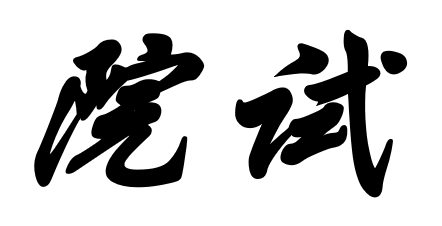
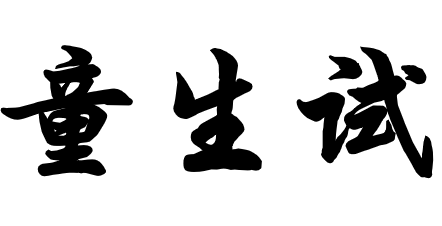
Adding winning poems.

diff --git a/Assets/Scripts/UI/Scenes/MainGameScene.cs b/Assets/Scripts/UI/Scenes/MainGameScene.cs
@@ -35,6 +35,7 @@ public class MainGameScene : MonoBehaviour
 
     public GameObject backgroundAudio = null;
 
+
     //// private ActivityManager activityManager = null;
 
     public int StageId
@@ -185,7 +186,7 @@ public class MainGameScene : MonoBehaviour
 
         game.transform.parent = this.transform;
         game.name = "ActivityManager";
-        game.tag = "ActivityManager";
+        // game.tag = "ActivityManager";
         return activityManager;
     }
 
@@ -320,6 +321,33 @@ public class MainGameScene : MonoBehaviour
             next.HighestScore = 0;
             GlobalStorage.SaveRecord(next);
         }
+
+        // Play animation to close the panels and show poem in full
+        var activityManager = AquireActivityManager();
+        var fadeOut1 = new FadeOutActivity(this.PuzzleBoard, 1.5f);
+        var fadeOut2 = new FadeOutActivity(this.HintBoard, 1.5f);
+        var fadeOut3 = new FadeOutActivity(this.btnReveal, 1.5f);
+        var fadeOut4 = new FadeOutActivity(this.btnBack, 1.5f);
+        var fadeOut5 = new FadeOutActivity(this.btnReshuffle, 1.5f);
+        var fadeOut6 = new FadeOutActivity(this.txtRevealCount, 1.5f);
+        
+        var bundle = new BundleActivity();
+        bundle.AddActivity(fadeOut1);
+        bundle.AddActivity(fadeOut2);
+        bundle.AddActivity(fadeOut3);
+        bundle.AddActivity(fadeOut4);
+        bundle.AddActivity(fadeOut5);
+
+        var gameObject = new GameObject("WinningPoem");
+        var renderer = gameObject.AddComponent<SpriteRenderer>();
+        renderer.sprite = Resources.Load<Sprite>(string.Format(@"images/stage_{0}_win", this.StageId));
+        renderer.color = new Color(1.0f, 1.0f, 1.0f, 0.0f);
+        gameObject.transform.localScale = new Vector3(0.55f, 0.55f, 1.0f);
+
+        var fadeIn = new FadeInActivity(gameObject, 1.5f);
+
+        activityManager.PushActivity(bundle);
+        activityManager.PushActivity(fadeIn);
     }
 
     public void BtnBackClicked()

diff --git a/Assets/Scripts/UI/Activities/FadeOutActivity.cs b/Assets/Scripts/UI/Activities/FadeOutActivity.cs
@@ -1,0 +1,55 @@
+using System.Collections;
+using System.Collections.Generic;
+using UnityEngine;
+
+public class FadeOutActivity : BaseActivity
+{
+    private GameObject gameObject;
+
+    private float timeSpan = 0;
+
+    private float timeStart = 0;
+
+    public FadeOutActivity(GameObject gameObject, float timeSpan)
+    {
+        this.gameObject = gameObject;
+        this.timeSpan = timeSpan;
+    }
+
+    public override bool HasFinished()
+    {
+        return (Time.realtimeSinceStartup - timeStart) > timeSpan;
+    }
+
+    public override void OnBeginning()
+    {
+        timeStart = Time.realtimeSinceStartup;
+    }
+
+    public override void OnFinished()
+    {
+        // Nothing
+    }
+
+    public override void Update()
+    {
+        float a = 1 - (Time.realtimeSinceStartup - timeStart) / timeSpan;
+
+        Transform[] ts = gameObject.GetComponentsInChildren<Transform>();
+        foreach (var t in ts)
+        {
+            if (t != null && t.gameObject != null)
+            {
+                try
+                {
+                    var clr = t.GetComponent<SpriteRenderer>().color;
+                    t.GetComponent<SpriteRenderer>().color = new Color(clr.r, clr.g, clr.b, a);
+                }
+                catch (MissingComponentException)
+                {
+
+                }
+            }
+        }
+    }
+}

diff --git a/Assets/Scripts/UI/Activities/FadeInActivity.cs b/Assets/Scripts/UI/Activities/FadeInActivity.cs
@@ -1,0 +1,54 @@
+using System.Collections;
+using System.Collections.Generic;
+using UnityEngine;
+
+public class FadeInActivity : BaseActivity
+{
+    private GameObject gameObject;
+
+    private float timeSpan = 0;
+
+    private float timeStart = 0;
+
+    public FadeInActivity(GameObject gameObject, float timeSpan)
+    {
+        this.gameObject = gameObject;
+        this.timeSpan = timeSpan;
+    }
+
+    public override bool HasFinished()
+    {
+        return (Time.realtimeSinceStartup - timeStart) > timeSpan;
+    }
+
+    public override void OnBeginning()
+    {
+        timeStart = Time.realtimeSinceStartup;
+    }
+
+    public override void OnFinished()
+    {
+        // Nothing
+    }
+
+    public override void Update()
+    {
+        float a = (Time.realtimeSinceStartup - timeStart) / timeSpan;
+        Transform[] ts = gameObject.GetComponentsInChildren<Transform>();
+        foreach (var t in ts)
+        {
+            if (t != null && t.gameObject != null)
+            {
+                try
+                {
+                    var clr = t.GetComponent<SpriteRenderer>().color;
+                    t.GetComponent<SpriteRenderer>().color = new Color(clr.r, clr.g, clr.b, a);
+                }
+                catch(MissingComponentException)
+                {
+
+                }
+            }
+        }
+    }
+}

diff --git a/Assets/Scripts/UI/Activities/BundleActivity.cs b/Assets/Scripts/UI/Activities/BundleActivity.cs
@@ -1,0 +1,61 @@
+using System.Collections;
+using System.Collections.Generic;
+using UnityEngine;
+
+public class BundleActivity : BaseActivity
+{
+    private List<BaseActivity> activityList = null;
+
+
+    public BundleActivity()
+    {
+        this.activityList = new List<BaseActivity>();
+    }
+
+    public void AddActivity(BaseActivity activity)
+    {
+        this.activityList.Add(activity);
+    }
+
+    public override bool HasFinished()
+    {
+        foreach(var activity in activityList)
+        {
+            if (activity != null && !activity.HasFinished())
+            {
+                return false;
+            }
+        }
+
+        return true;
+    }
+
+    public override void OnBeginning()
+    {
+        foreach (var activity in activityList)
+        {
+            if (activity != null)
+            {
+                activity.OnBeginning();
+            }
+        }
+    }
+
+    public override void OnFinished()
+    {
+        
+    }
+
+    public override void Update()
+    {
+        foreach (var activity in activityList)
+        {
+            if (activity.HasFinished())
+            {
+                activity.OnFinished();
+            }
+
+            activity.Update();
+        }
+    }
+}
